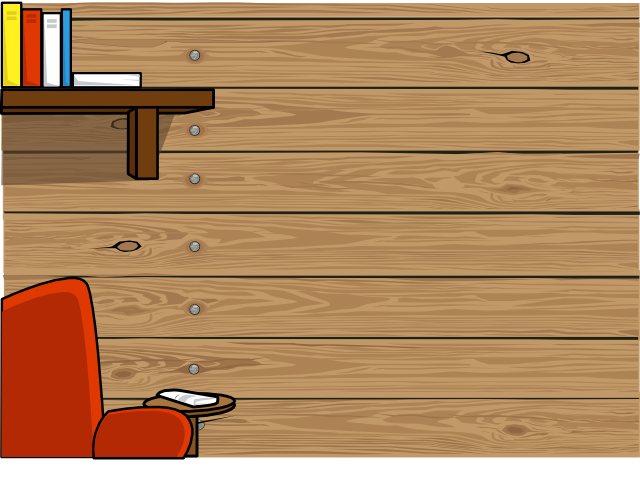
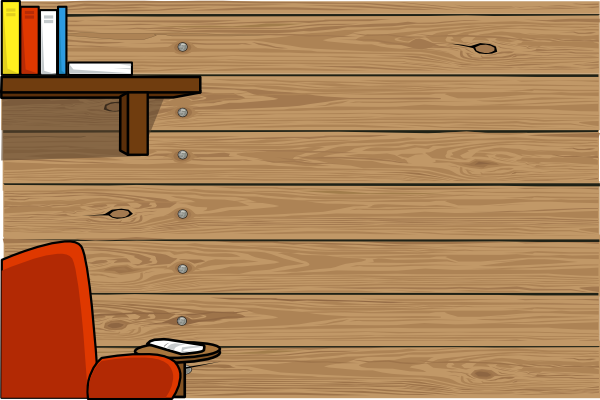
Code to correct for new canvas dim of 600x425 with game dim of 600x400

diff --git a/html5_games/sources/Splat/game.html b/html5_games/sources/Splat/game.html
@@ -89,14 +89,15 @@
     <div id="lgzGameCanvas"></div>
 
     <div id="lgzHud">
-        <div class="menu" >
-        <div class="bar">
-            <button id="lgzHudFullScreen" resname="FullScreen" class="btn square" onclick="Lgz.hud.fullScreenToggle();"   ></button>
-            <button id="lgzHudExit" resname="Exit" class="btn square" onclick="Lgz.hud.winOpen('winExitConfirm');"   ></button>
-            <p id="lgzHudLogo" class="">LingaZone.com</p>
+        <div id="lgzHudMenuBar" >
 
-            <button id="lgzHudHelp" class="btn square" onclick="Lgz.mgr.help();">Help</button>
-        </div>
+ 
+                <button id="lgzHudFullScreen" resname="FullScreen" class="btn square" onclick="Lgz.hud.fullScreenToggle();"   ></button>
+                <button id="lgzHudExit" resname="Exit" class="btn square" onclick="Lgz.hud.winOpen('winExitConfirm');"   ></button>
+                <p id="lgzHudLogo" >LingaZone.com</p>
+
+                <button id="lgzHudHelp" class="btn square" onclick="Lgz.mgr.help();">Help</button>
+
         </div>
 
 <!-- rsc/html/win.html: BEGIN -->
@@ -107,16 +108,16 @@
             <p   resname="IDS_INSTRUCTIONS">
                 How To Play
             </p>
-            <button id="lgzPlayBtn" resname="IDS_PLAY" onclick="Lgz.mgr.play()">PlaytheGame!</button>
+            <button id="lgzBtnPlay" resname="IDS_PLAY" onclick="Lgz.mgr.play()">PlaytheGame!</button>
         </div>
 
-        <div id="winWon" class="win modal">
+        <div id="winWon" class="win ">
             <div class="msgbox">
-            <p   resname="IDS_CONGRATS"></p>
+            <p   id="IDS_CONGRATS" resname="IDS_CONGRATS"></p>
             <br>
             <div class="btngroup">
-                <button class="btn bg" resname="IDS_PLAY_AGAIN" onclick="Lgz.mgr.play()" > </button>
-                <button  class="btn bg" resname="Cancel" onclick="Lgz.mgr.welcome()" > </button>
+                <button id="lgzBtnPlayAgain" class="btn bg" resname="IDS_PLAY_AGAIN" onclick="Lgz.mgr.play()" > </button>
+                <button  id="lgzBtnPlayCancel" class="btn bg" resname="Cancel" onclick="Lgz.mgr.welcome()" > </button>
             </div>
             </div>
 
@@ -238,6 +239,7 @@
 
 <!-- lib/html/lgzlibjs.html: BEGIN -->
     <script type="text/javascript" src="lib/vendor/jquery.min.js"></script>
+ 
     <script type="text/javascript" src="lib/vendor/phaser/phaser-2.0.7.js?"></script>
     <script type="text/javascript" src="lib/vendor/phaser/plugins/savecpu.js?"></script>
     <script type="text/javascript" src="lib/lgz/js/k.js?"></script>

diff --git a/html5_games/sources/Splat/body.html b/html5_games/sources/Splat/body.html
@@ -3,14 +3,15 @@
     <div id="lgzGameCanvas"></div>
 
     <div id="lgzHud">
-        <div class="menu" >
-        <div class="bar">
-            <button id="lgzHudFullScreen" resname="FullScreen" class="btn square" onclick="Lgz.hud.fullScreenToggle();"   ></button>
-            <button id="lgzHudExit" resname="Exit" class="btn square" onclick="Lgz.hud.winOpen('winExitConfirm');"   ></button>
-            <p id="lgzHudLogo" class="">LingaZone.com</p>
+        <div id="lgzHudMenuBar" >
 
-            <button id="lgzHudHelp" class="btn square" onclick="Lgz.mgr.help();">Help</button>
-        </div>
+ 
+                <button id="lgzHudFullScreen" resname="FullScreen" class="btn square" onclick="Lgz.hud.fullScreenToggle();"   ></button>
+                <button id="lgzHudExit" resname="Exit" class="btn square" onclick="Lgz.hud.winOpen('winExitConfirm');"   ></button>
+                <p id="lgzHudLogo" >LingaZone.com</p>
+
+                <button id="lgzHudHelp" class="btn square" onclick="Lgz.mgr.help();">Help</button>
+
         </div>
 
 <!-- rsc/html/win.html: BEGIN -->
@@ -21,16 +22,16 @@
             <p   resname="IDS_INSTRUCTIONS">
                 How To Play
             </p>
-            <button id="lgzPlayBtn" resname="IDS_PLAY" onclick="Lgz.mgr.play()">PlaytheGame!</button>
+            <button id="lgzBtnPlay" resname="IDS_PLAY" onclick="Lgz.mgr.play()">PlaytheGame!</button>
         </div>
 
-        <div id="winWon" class="win modal">
+        <div id="winWon" class="win ">
             <div class="msgbox">
-            <p   resname="IDS_CONGRATS"></p>
+            <p   id="IDS_CONGRATS" resname="IDS_CONGRATS"></p>
             <br>
             <div class="btngroup">
-                <button class="btn bg" resname="IDS_PLAY_AGAIN" onclick="Lgz.mgr.play()" > </button>
-                <button  class="btn bg" resname="Cancel" onclick="Lgz.mgr.welcome()" > </button>
+                <button id="lgzBtnPlayAgain" class="btn bg" resname="IDS_PLAY_AGAIN" onclick="Lgz.mgr.play()" > </button>
+                <button  id="lgzBtnPlayCancel" class="btn bg" resname="Cancel" onclick="Lgz.mgr.welcome()" > </button>
             </div>
             </div>
 

diff --git a/html5_games/sources/Splat/rsc/js/scenes.js b/html5_games/sources/Splat/rsc/js/scenes.js
@@ -43,19 +43,19 @@ LgzLib.Scenes.Main.prototype.create = function () {
 
     thisObj = this;
    
+    thisObj.game.world.bounds.setTo(0,0,600,400);
+    
     //sprite: main background
     thisObj.game.add.sprite(0, 0, 'main');
 
-    //thisObj.timer = new Lgz.Timer(thisObj);
-    //thisObj.timer.create();
     thisObj.lgzMgr.pause = function () {
         thisObj.playSet.pause();
-        //thisObj.timer.pause();
+
         thisObj.game.paused = true;
 
     };
     thisObj.lgzMgr.resume = function () {
-        //thisObj.timer.resume();
+
         thisObj.playSet.resume();        
         thisObj.game.paused = false;
     };
@@ -66,7 +66,7 @@ LgzLib.Scenes.Main.prototype.create = function () {
 LgzLib.Scenes.Main.prototype.update = function () {
     // console.debug('Scenes2.Main.update: key ' + this.key); 
     this.playSet.update();
-    //this.timer.update();
+
 };
 LgzLib.Scenes.End.prototype.rscload = function () {
     console.debug('Scenes2.End.rscload: key ' + this.key);    

diff --git a/html5_games/sources/Splat/rsc/js/k.js b/html5_games/sources/Splat/rsc/js/k.js
@@ -18,19 +18,7 @@ K.renderType = Phaser.CANVAS;
 // K.renderForce = true;
 K.renderForce = false;
 K.renderFPS = 15;
-
-K.welcomeBgOffX = 0;
-K.welcomeBgOffY = 0;
  
-K.welcomePlayX = 520;
-K.welcomePlayY = 50;
-
-
-
-K.mainBgWidth = 640;
-K.mainBgHeight = 480;
-K.mainBgOffX = 0;
-K.mainBgOffY = 0;
 
 K.textTO = 200;
 K.textTopMargin = 160;
@@ -52,12 +40,5 @@ K.balloonTextStyle = {
         strokeThickness: 2,
 	align: 'center'
 };
-K.clockTextStyle = {
-	font: '14pt ' + K.font,
-	fill: '#ffffff',
-	align: 'center'
-};
-K.clockX = K.canvasWidth  - 30;
-K.clockY = K.canvasHeight - 40;
 
 K.lastMatchTO = 5000;

diff --git a/html5_games/sources/Splat/rsc/js/playset.js b/html5_games/sources/Splat/rsc/js/playset.js
@@ -80,7 +80,7 @@ Lgz.PlaySet = function (scene) {
         game.physics.startSystem(Phaser.Physics.P2JS);
         game.physics.p2.defaultRestitution = 0.8;
         game.physics.p2.setImpactEvents(true);
-        game.physics.p2.setBounds(0, 0, 640,440, true, true, true, true, false);
+        game.physics.p2.setBounds(0, 0, 600,400, true, true, true, true, false);
         game.physics.p2.gravity.y = K.gravity;
         
         cg = {};

diff --git a/html5_games/sources/Splat/tail.html b/html5_games/sources/Splat/tail.html
@@ -1,6 +1,7 @@
 
 <!-- lib/html/lgzlibjs.html: BEGIN -->
     <script type="text/javascript" src="lib/vendor/jquery.min.js"></script>
+ 
     <script type="text/javascript" src="lib/vendor/phaser/phaser-2.0.7.js?"></script>
     <script type="text/javascript" src="lib/vendor/phaser/plugins/savecpu.js?"></script>
     <script type="text/javascript" src="lib/lgz/js/k.js?"></script>
